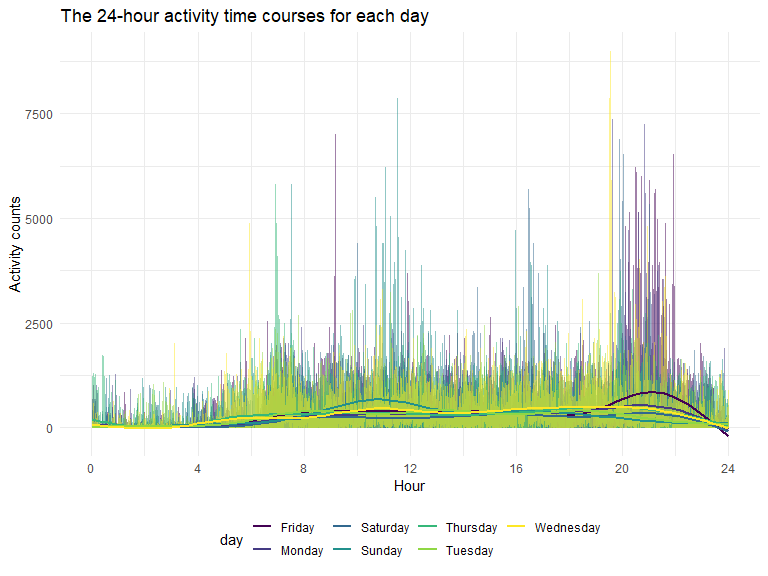
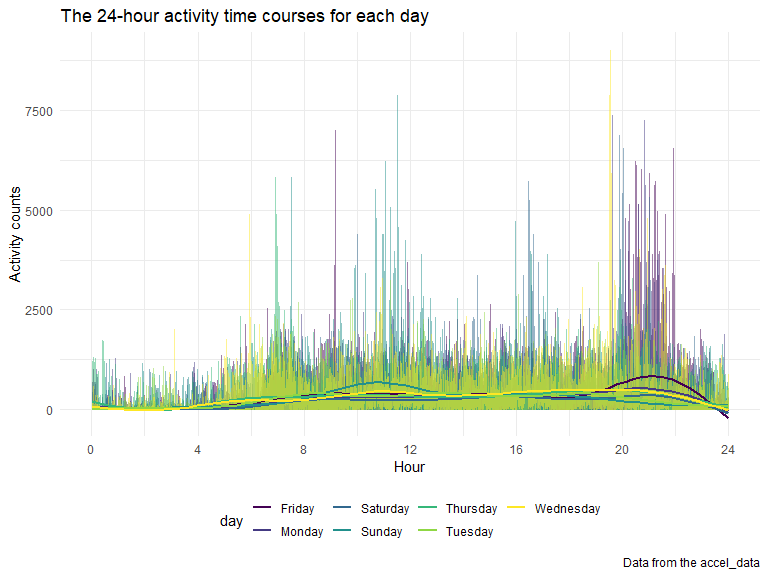
Make a two-panel plot showing the average max temperature in January and in July in each station across years.

diff --git a/p8105_hw3_yx2711.md b/p8105_hw3_yx2711.md
@@ -3,7 +3,7 @@ p8105_hw3_yx2711
 Yingchen Xu
 2022-10-15
 
-\#Problem 1
+# Problem 1
 
 Load dataset `instacart`
 
@@ -124,7 +124,7 @@ instacart %>%
 | Coffee Ice Cream | 13.77 | 14.32 | 15.38 | 15.32 | 15.22 | 12.26 | 13.83 |
 | Pink Lady Apples | 13.44 | 11.36 | 11.70 | 14.25 | 11.55 | 12.78 | 11.94 |
 
-\#Problem 2
+# Problem 2
 
 Read file and clean names. Use `mutate()` to add a type variable to
 indicate that whether the day is a weekend or a weekday. Use
@@ -232,7 +232,8 @@ plot_each_day = activity %>%
   labs(
     title = "The 24-hour activity time courses for each day",
     x = "Hour",
-    y = "Activity counts") +
+    y = "Activity counts",
+    caption = "Data from the accel_data") +
   scale_x_continuous(breaks = c(0, 4, 8, 12, 16, 20, 24))
 
 plot_each_day
@@ -250,7 +251,7 @@ counts stay high and constant from 10 am to around 11 pm. Based on the
 of a week. There is a distinct peak at around 10 am for Sunday and there
 is a distinct peak at around 10 pm for Friday.
 
-\#Problem 3
+# Problem 3
 
 Load dataset `ny_noaa`.
 
@@ -269,3 +270,92 @@ missing values in the precipitation variables, 381221 missing values in
 the snow fall variables, 591786 missing values in the snow depth
 variables, 1134358 missing values in the maximum temperature variables
 and 1134420 missing values in the minimum temperature variables.
+
+Create separate variables for year, month, and day and ensure
+observations for temperature, precipitation, and snowfall are given in
+reasonable units.
+
+``` r
+ny_noaa = ny_noaa %>% 
+  separate(date, c("year", "month", "day")) %>% 
+  mutate(
+    prcp = prcp / 10,
+    tmax = as.numeric(tmax) / 10,
+    tmin = as.numeric(tmin) / 10,
+    year = as.numeric(year),
+    month = as.numeric(month),
+    day = as.numeric(day)
+  )
+
+ny_noaa %>% 
+  group_by(snow) %>% 
+  summarize(n = n()) %>% 
+  arrange(desc(n))
+```
+
+    ## # A tibble: 282 × 2
+    ##     snow       n
+    ##    <int>   <int>
+    ##  1     0 2008508
+    ##  2    NA  381221
+    ##  3    25   31022
+    ##  4    13   23095
+    ##  5    51   18274
+    ##  6    76   10173
+    ##  7     8    9962
+    ##  8     5    9748
+    ##  9    38    9197
+    ## 10     3    8790
+    ## # … with 272 more rows
+
+The date variable has been separated into three variables year, month
+and day. The units of precipitation has changed to mm and the units of
+tmax and tmin has changed to degrees C. The most commonly observed value
+for snowfall is 0. Since snowfall only occurs in the winter and for the
+rest of the year, the occurrence of snowfall would be 0.
+
+Make a two-panel plot showing the average max temperature in January and
+in July in each station across years.
+
+``` r
+plot_Jan_vs_Jul = ny_noaa %>% 
+  filter(
+    month == c(1, 7),
+    !is.na(tmax)) %>% 
+  mutate(
+    month = recode(month, "01" = "January", "07" = "July")
+  ) %>% 
+  group_by(id, month, year) %>% 
+  summarize(avg_max = mean(tmax)) %>% 
+  ggplot(aes(x = year, y = avg_max)) +
+  geom_point() +
+  geom_line() +
+  facet_grid(.~month) +
+  labs(
+    title = "The average max temperature in January and July in each station across years",
+    x = "Year",
+    y = "Average maximum temerature (degrees C)",
+    caption = "Data from p8105 package - `NY_NOAA`"
+  ) + 
+  scale_x_continuous(n.break = 10)
+```
+
+    ## `summarise()` has grouped output by 'id', 'month'. You can override using the
+    ## `.groups` argument.
+
+``` r
+plot_Jan_vs_Jul
+```
+
+<img src="p8105_hw3_yx2711_files/figure-gfm/unnamed-chunk-11-1.png" width="90%" />
+
+The overall average maximum temperature is higher in July in each
+station across years than in January. There are fluctuations in average
+maximum temperature in each station over the years in these two months.
+In each year, the ranges of average maximum temperatures in each station
+are smaller in July than in January on average. There are outliers. For
+example, in January 2004, there is one station that has average maximum
+temperature of 14 degrees C, which is much higher than the rest in
+January. In July 1988, there is one station that has average maximum
+temperature of around 14 degrees C, which is much lower than the rest in
+July.
